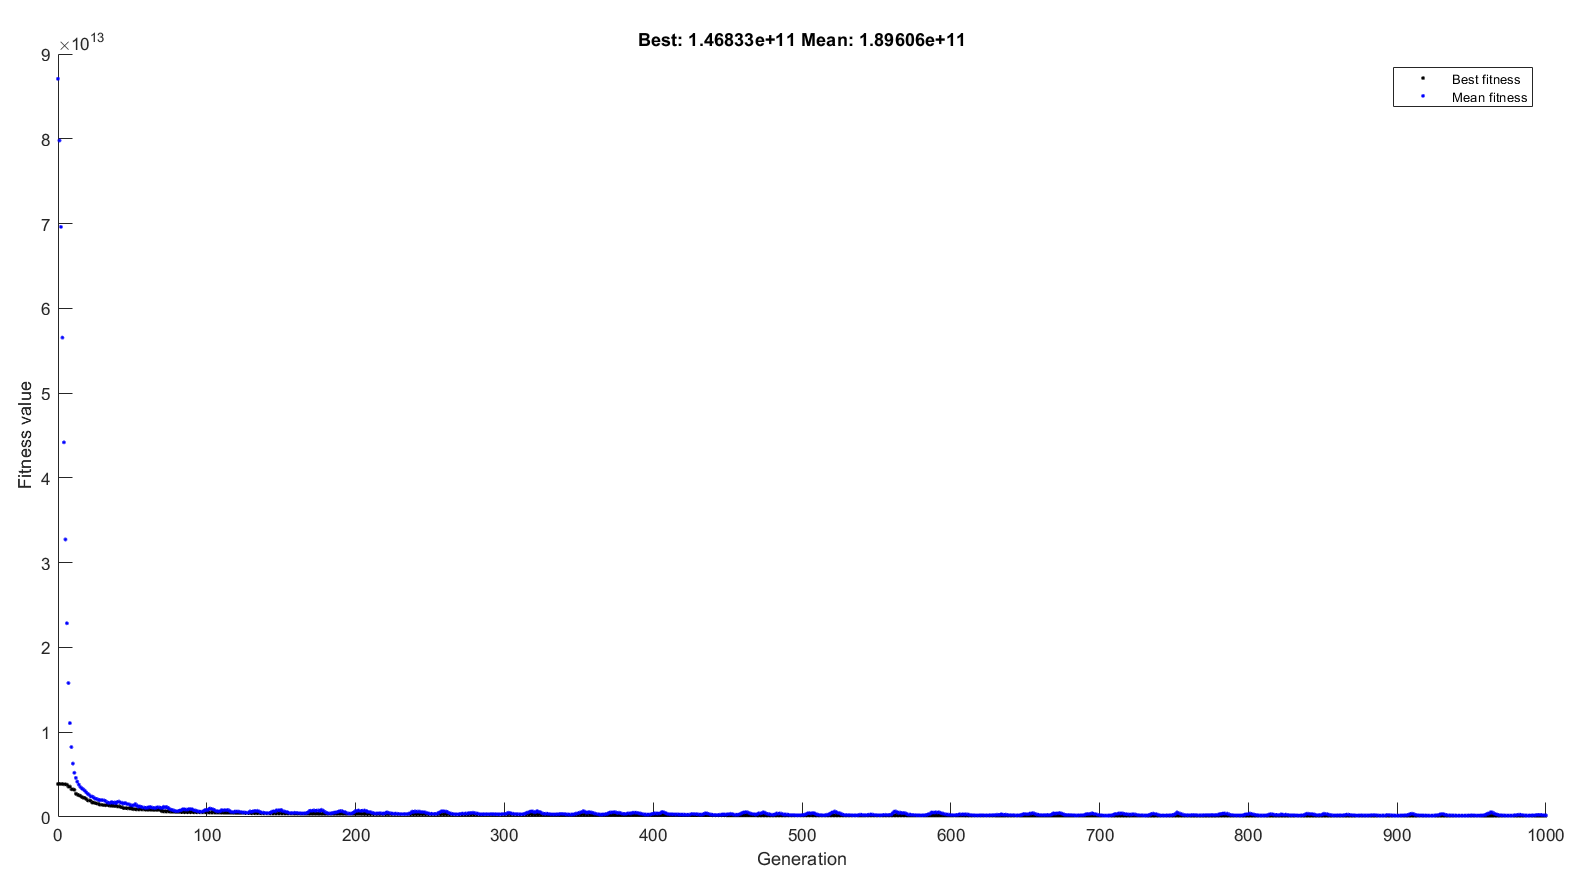
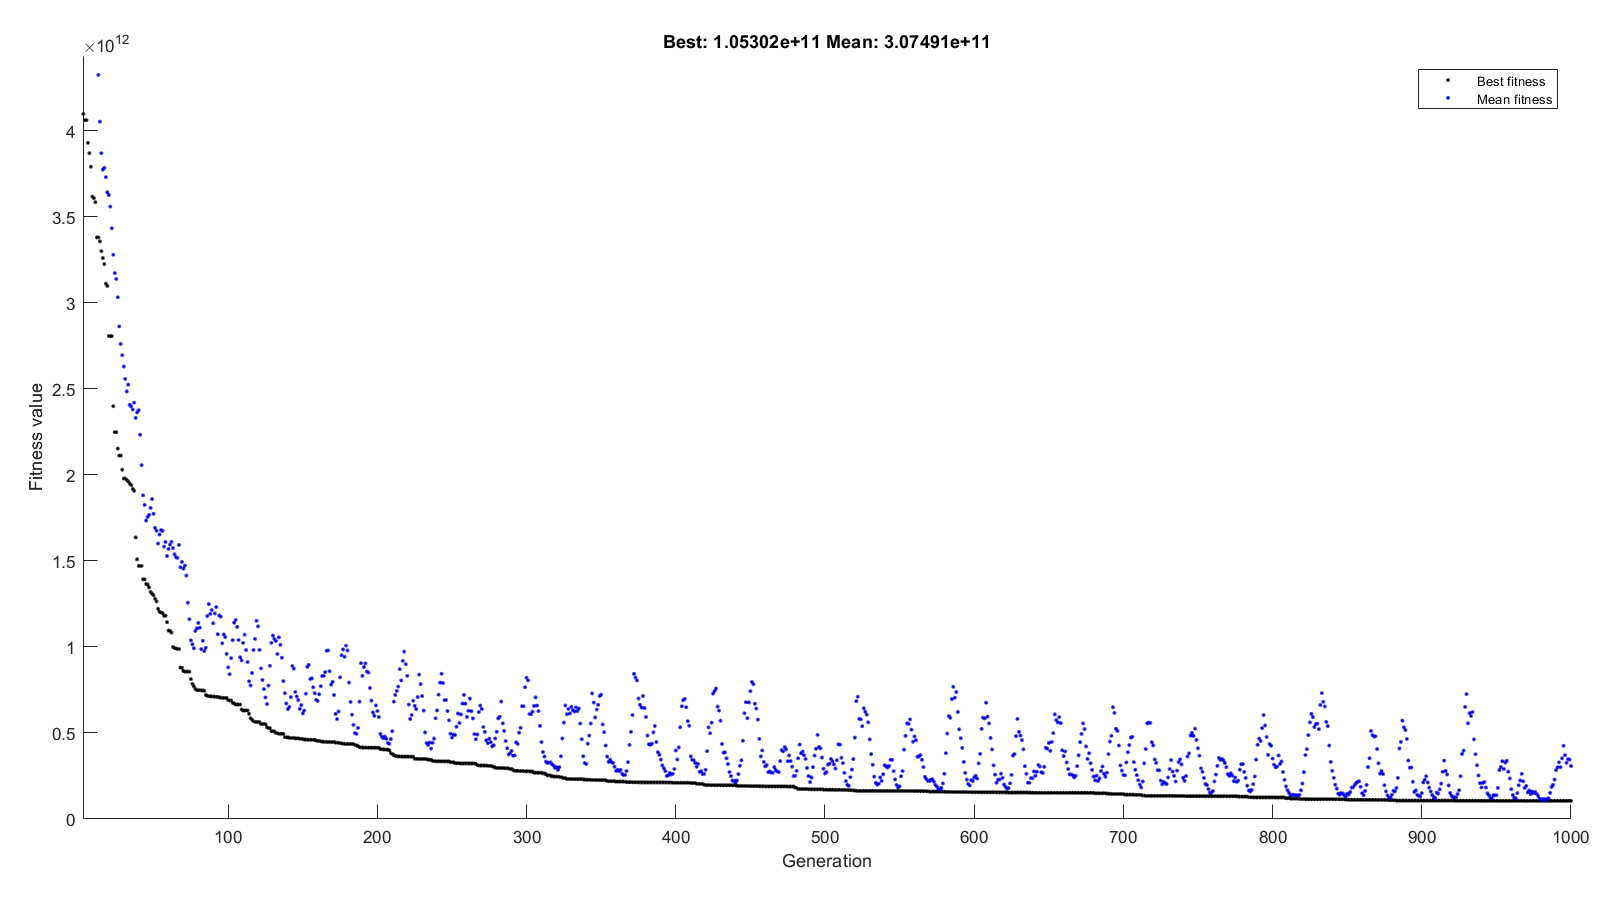
added new folder

diff --git a/Final/GA with Gradient/vanilla_main.m b/Final/GA with Gradient/vanilla_main.m
@@ -1,0 +1,16 @@
+[powerplants, cost, carbon] = PowerPlant();
+global x0 w_dollar energy_cost capital_loan_duration dt build_cost CO2_cost P plot_on w_CO2
+build_cost = cost(:,1);
+energy_cost = cost(:,2);
+CO2_cost = carbon;
+w_dollar = 0.5;
+capital_loan_duration = 20;
+w_CO2 = 50/1000; % dollars per kg CO2
+plot_on = 0; % Do not plot in the scenario function
+dt = 1; 
+P = 30*10^6; % Power in kW
+x0 = [0.5; 0; 0.27; 0; 0.03; 0.04; 0.02; 0.01; 0.05; 0.05; 0.03];
+
+plot_on = 1;
+test_sub = zeros(1,66);
+scenario(test_sub)

diff --git a/Final/GA with Gradient/scenario.m b/Final/GA with Gradient/scenario.m
@@ -5,7 +5,7 @@ function f = scenario(sub)
     sub_count = 0; % Check to choose from the right subsidies
     A = ones(1,11); b = 1;
     Aeq = ones(1,11); beq = 1;
-    lb = zeros(1,11); ub = [1 1 1 1 1 1 1 0.1 0.1 0.3 0.3];
+    lb = zeros(1,11); ub = [1 1 1 1 1 1 0.1 1 0.1 1 0.3];
     nonlcon = [];
     options = optimoptions(@fmincon,'Algorithm','sqp','MaxIterations',1000,'Display','off','SpecifyObjectiveGradient',true);
     [xsol_abs,f_abs] = fmincon(@objfun,x0,A,b,Aeq,beq,lb,ub,nonlcon,options);
